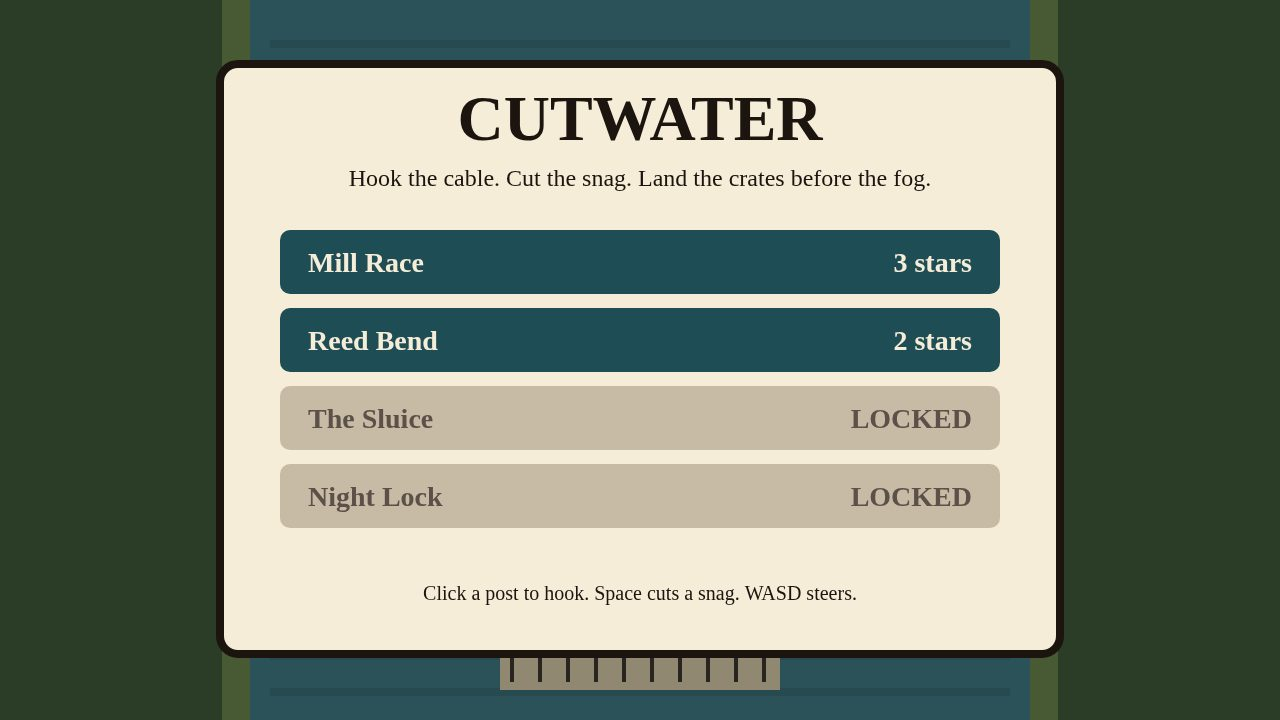
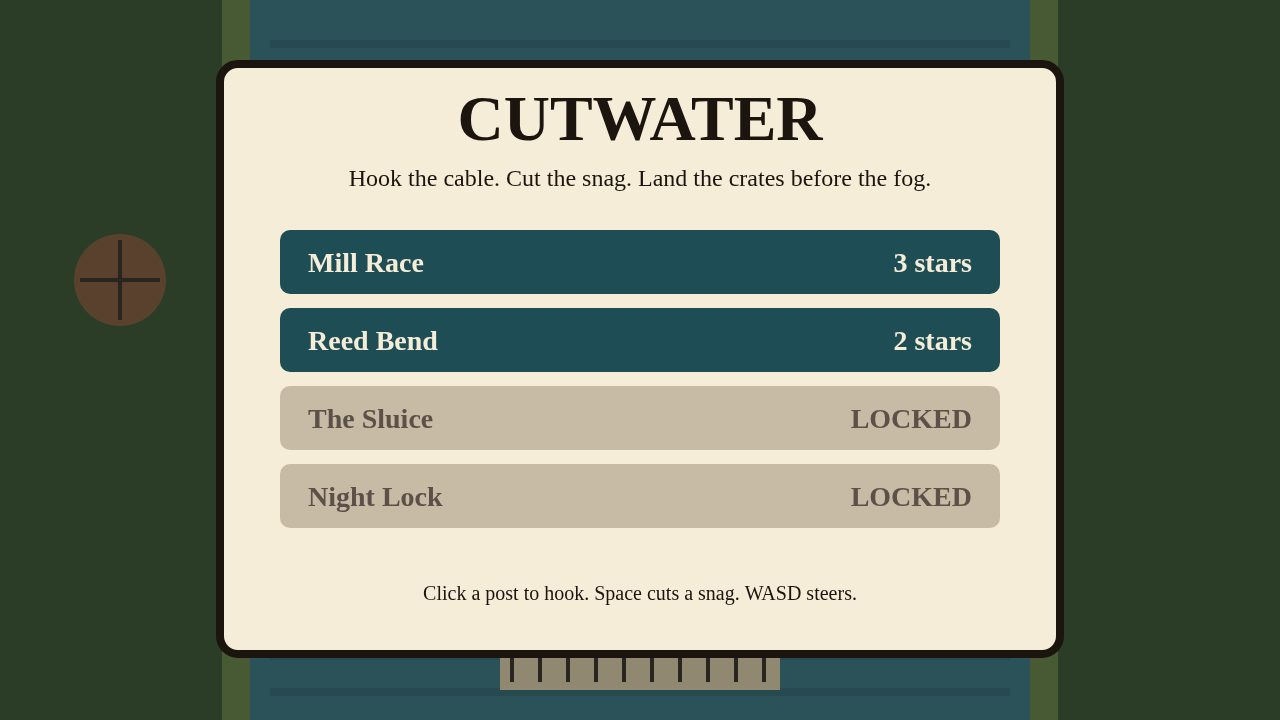
Make the river read in one frame
Reeds, a mill, sluice piers and a night lamp sit on the banks. The cover holds a snagged cable with a cut mark.

Changed region(s): [[0.0312, 0.3056, 0.1562, 0.4583]]

diff --git a/game/src/draw.js b/game/src/draw.js
@@ -35,6 +35,51 @@ function banks(ctx, level) {
   }
 }
 
+function scenery(ctx, level) {
+  const theme = themeOf(level);
+  ctx.strokeStyle = theme.night ? '#1e3a28' : '#2f6a32';
+  ctx.lineWidth = 3;
+  for (let i = 0; i < 14; i += 1) {
+    const y = 90 + i * 42;
+    ctx.beginPath();
+    ctx.moveTo(BANK_L + 8, y);
+    ctx.quadraticCurveTo(BANK_L + 24, y - 16, BANK_L + 18, y - 28);
+    ctx.moveTo(BANK_R - 8, y + 12);
+    ctx.quadraticCurveTo(BANK_R - 26, y - 6, BANK_R - 16, y - 22);
+    ctx.stroke();
+  }
+  if (!level.rain && !level.night) {
+    ctx.fillStyle = '#8d6240';
+    ctx.beginPath();
+    ctx.arc(120, 280, 46, 0, Math.PI * 2);
+    ctx.fill();
+    ctx.strokeStyle = '#3a3128';
+    ctx.lineWidth = 4;
+    ctx.beginPath();
+    ctx.moveTo(80, 280);
+    ctx.lineTo(160, 280);
+    ctx.moveTo(120, 240);
+    ctx.lineTo(120, 320);
+    ctx.stroke();
+  }
+  if (level.rain) {
+    ctx.fillStyle = '#4a463f';
+    ctx.fillRect(BANK_L - 18, 300, 36, 80);
+    ctx.fillRect(BANK_R - 18, 300, 36, 80);
+    ctx.fillStyle = '#6a6458';
+    ctx.fillRect(BANK_L - 8, 250, 16, 50);
+    ctx.fillRect(BANK_R - 8, 250, 16, 50);
+  }
+  if (level.night) {
+    ctx.fillStyle = '#c4a46a';
+    ctx.fillRect(70, 160, 28, 70);
+    ctx.fillStyle = 'rgba(226, 184, 74, 0.35)';
+    ctx.beginPath();
+    ctx.arc(84, 150, 36, 0, Math.PI * 2);
+    ctx.fill();
+  }
+}
+
 function wharf(ctx, level) {
   const theme = themeOf(level);
   ctx.fillStyle = theme.night ? '#c4a46a' : '#e7d7b0';
@@ -67,7 +112,7 @@ function drawPosts(ctx, run) {
 function drawCable(ctx, run) {
   if (!run.cable) return;
   ctx.strokeStyle = run.snag ? '#c4503a' : '#e2b84a';
-  ctx.lineWidth = 4;
+  ctx.lineWidth = 7;
   ctx.beginPath();
   ctx.moveTo(run.boat.x, run.boat.y);
   ctx.lineTo(run.cable.x, run.cable.y);
@@ -96,22 +141,39 @@ function drawLogs(ctx, run) {
 }
 
 function drawBoat(ctx, run) {
-  const { boat, crates } = run;
-  ctx.fillStyle = '#6b4228';
+  const { boat, crates, level } = run;
+  ctx.fillStyle = 'rgba(232, 244, 246, 0.35)';
   ctx.beginPath();
-  ctx.moveTo(boat.x - 28, boat.y);
-  ctx.lineTo(boat.x - 18, boat.y + 16);
-  ctx.lineTo(boat.x + 18, boat.y + 16);
-  ctx.lineTo(boat.x + 28, boat.y);
+  ctx.ellipse(boat.x, boat.y + 18, 34, 10, 0, 0, Math.PI * 2);
+  ctx.fill();
+  ctx.fillStyle = '#5c3a22';
+  ctx.beginPath();
+  ctx.moveTo(boat.x - 36, boat.y);
+  ctx.lineTo(boat.x - 22, boat.y + 20);
+  ctx.lineTo(boat.x + 22, boat.y + 20);
+  ctx.lineTo(boat.x + 36, boat.y);
   ctx.closePath();
   ctx.fill();
-  ctx.fillStyle = '#c4503a';
-  ctx.fillRect(boat.x - 4, boat.y - 22, 3, 22);
+  ctx.fillStyle = '#8d6240';
+  ctx.fillRect(boat.x - 20, boat.y - 8, 40, 12);
   ctx.fillStyle = '#f4e6c4';
-  let shown = 0;
-  for (let i = 0; i < Math.min(crates, 6); i += 1) {
-    ctx.fillRect(boat.x - 16 + shown * 6, boat.y - 6, 5, 5);
-    shown += 1;
+  const shown = Math.min(crates, 4);
+  for (let i = 0; i < shown; i += 1) {
+    ctx.fillRect(boat.x - 16 + (i % 2) * 16, boat.y - 18 - Math.floor(i / 2) * 12, 14, 10);
+  }
+  ctx.fillStyle = '#1c140f';
+  ctx.fillRect(boat.x - 2, boat.y - 34, 4, 26);
+  ctx.fillStyle = level.night ? '#e2b84a' : '#c4503a';
+  ctx.beginPath();
+  ctx.moveTo(boat.x + 2, boat.y - 32);
+  ctx.lineTo(boat.x + 18, boat.y - 22);
+  ctx.lineTo(boat.x + 2, boat.y - 16);
+  ctx.fill();
+  if (level.night) {
+    ctx.fillStyle = 'rgba(226, 184, 74, 0.28)';
+    ctx.beginPath();
+    ctx.arc(boat.x, boat.y, 70, 0, Math.PI * 2);
+    ctx.fill();
   }
 }
 
@@ -227,12 +289,24 @@ export function drawPause(ctx) {
 export function drawWorld(ctx, run) {
   sky(ctx, run.level);
   banks(ctx, run.level);
+  scenery(ctx, run.level);
   wharf(ctx, run.level);
   drawPosts(ctx, run);
   drawCable(ctx, run);
   drawLogs(ctx, run);
   drawBoat(ctx, run);
   drawSplashes(ctx, run);
+  const mist = 1 - Math.max(0, run.fog / run.level.fog);
+  if (mist > 0.02) {
+    ctx.fillStyle = `rgba(232, 236, 240, ${Math.min(0.45, mist)})`;
+    ctx.fillRect(BANK_L, 74, BANK_R - BANK_L, 80 + mist * 180);
+  }
+  if (run.snag) {
+    ctx.fillStyle = '#c4503a';
+    ctx.font = '700 22px Georgia, serif';
+    ctx.textAlign = 'center';
+    ctx.fillText('CUT', run.snag.log.x, run.snag.log.y - 28);
+  }
   if (run.level.rain) {
     ctx.strokeStyle = 'rgba(230, 236, 242, 0.45)';
     ctx.lineWidth = 2;

diff --git a/game/src/shots.js b/game/src/shots.js
@@ -11,6 +11,15 @@ function nextPost(run) {
   return best;
 }
 
+function showSnag(run) {
+  if (!run.cable) return;
+  const log = run.logs.find((one) => !one.gone);
+  if (!log) return;
+  log.x = (run.boat.x + run.cable.x) / 2;
+  log.y = (run.boat.y + run.cable.y) / 2;
+  run.snag = { log, left: 0.7 };
+}
+
 /** Ride the cable the way a player does: hook the next post, cut a snag. */
 export function pilotScript(run, seconds, stopAt = Infinity) {
   const steps = Math.round(seconds / STEP);
@@ -57,6 +66,7 @@ export function stageShot(name, seed) {
     beginReach(run, 2);
     run.stars = 5;
     pilotScript(run, 4, 99);
+    showSnag(run);
     run.bannerT = 0;
     run.mode = 'play';
     return run;
@@ -75,6 +85,7 @@ export function stageShot(name, seed) {
   }
   run.mode = 'play';
   pilotScript(run, 6, 99);
+  showSnag(run);
   run.bannerT = 0;
   run.mode = 'play';
   return run;
